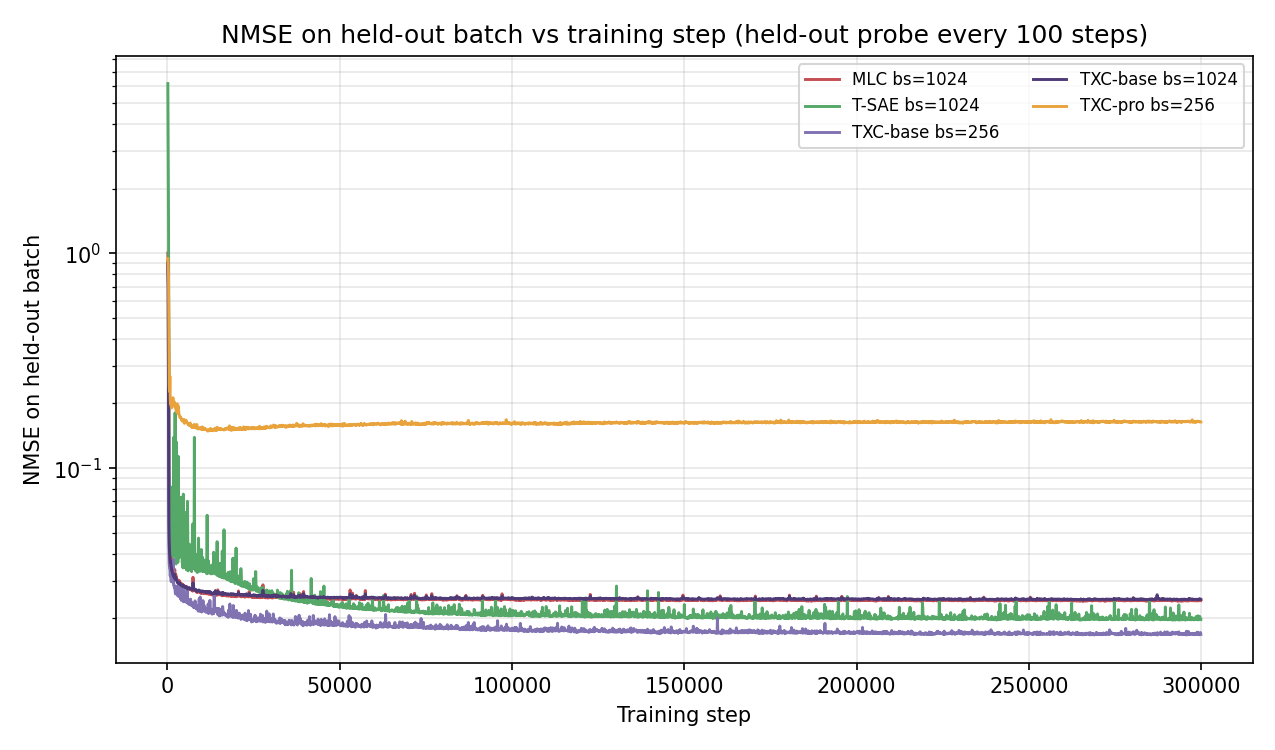
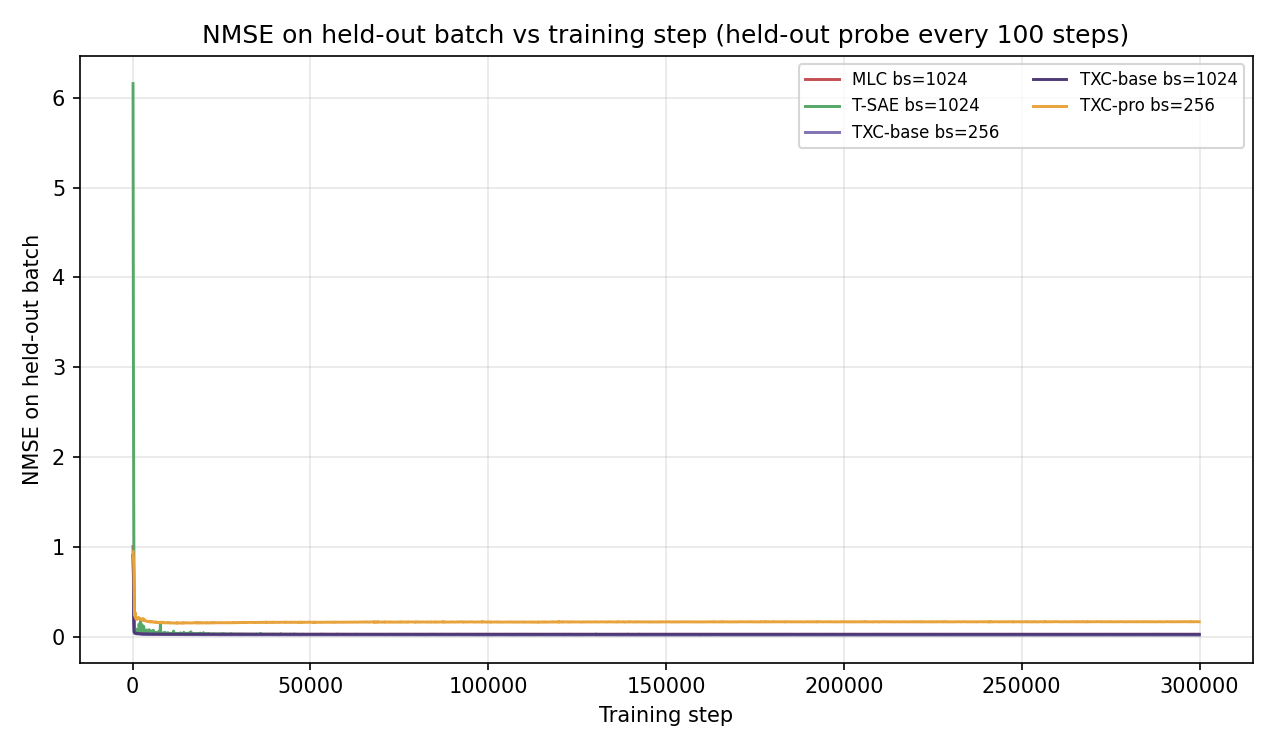
c7 paper auto: refresh bundle (? leaderboard rows)
Auto-generated by purified/scripts/c7_paper_renderer.py.
Inputs: results/leaderboard.jsonl filtered to component=c7 + every
cell's snapshots/eval_log.jsonl probe stream.

diff --git a/purified/docs/components/c7_paper_results.md b/purified/docs/components/c7_paper_results.md
@@ -1,6 +1,6 @@
 # C7 — Backtracking case study: results bundle (autogenerated)
 
-_Last updated: 2026-05-05 19:18:40 UTC._  _Source: `purified/results/leaderboard.jsonl` filtered to `component == 'c7'`._
+_Last updated: 2026-05-05 19:23:45 UTC._  _Source: `purified/results/leaderboard.jsonl` filtered to `component == 'c7'`._
 
 **Cells in leaderboard:** 4.  **Architectures present:** MLC, TXC-base, TXC-pro.  **Still pending:** TopK SAE, T-SAE.
 
@@ -63,11 +63,17 @@ Free probe data captured during training: NMSE, $\ell_0$ density, and
 dead-feature count on a held-out batch. These plots cover both completed 
 and in-flight cells, so curves may extend to different terminal steps.
 
-![NMSE vs training step](c7_paper_assets/nmse_vs_step.png)
+![NMSE vs training step (linear)](c7_paper_assets/nmse_vs_step.png)
 
-![L0 vs training step](c7_paper_assets/l0_vs_step.png)
+![NMSE vs training step (log-log)](c7_paper_assets/nmse_vs_step_loglog.png)
 
-![Dead features vs training step](c7_paper_assets/dead_vs_step.png)
+![L0 vs training step (linear)](c7_paper_assets/l0_vs_step.png)
+
+![L0 vs training step (log-log)](c7_paper_assets/l0_vs_step_loglog.png)
+
+![Dead features vs training step (linear)](c7_paper_assets/dead_vs_step.png)
+
+![Dead features vs training step (log-log)](c7_paper_assets/dead_vs_step_loglog.png)
 
 ## Per-cell metadata
 
